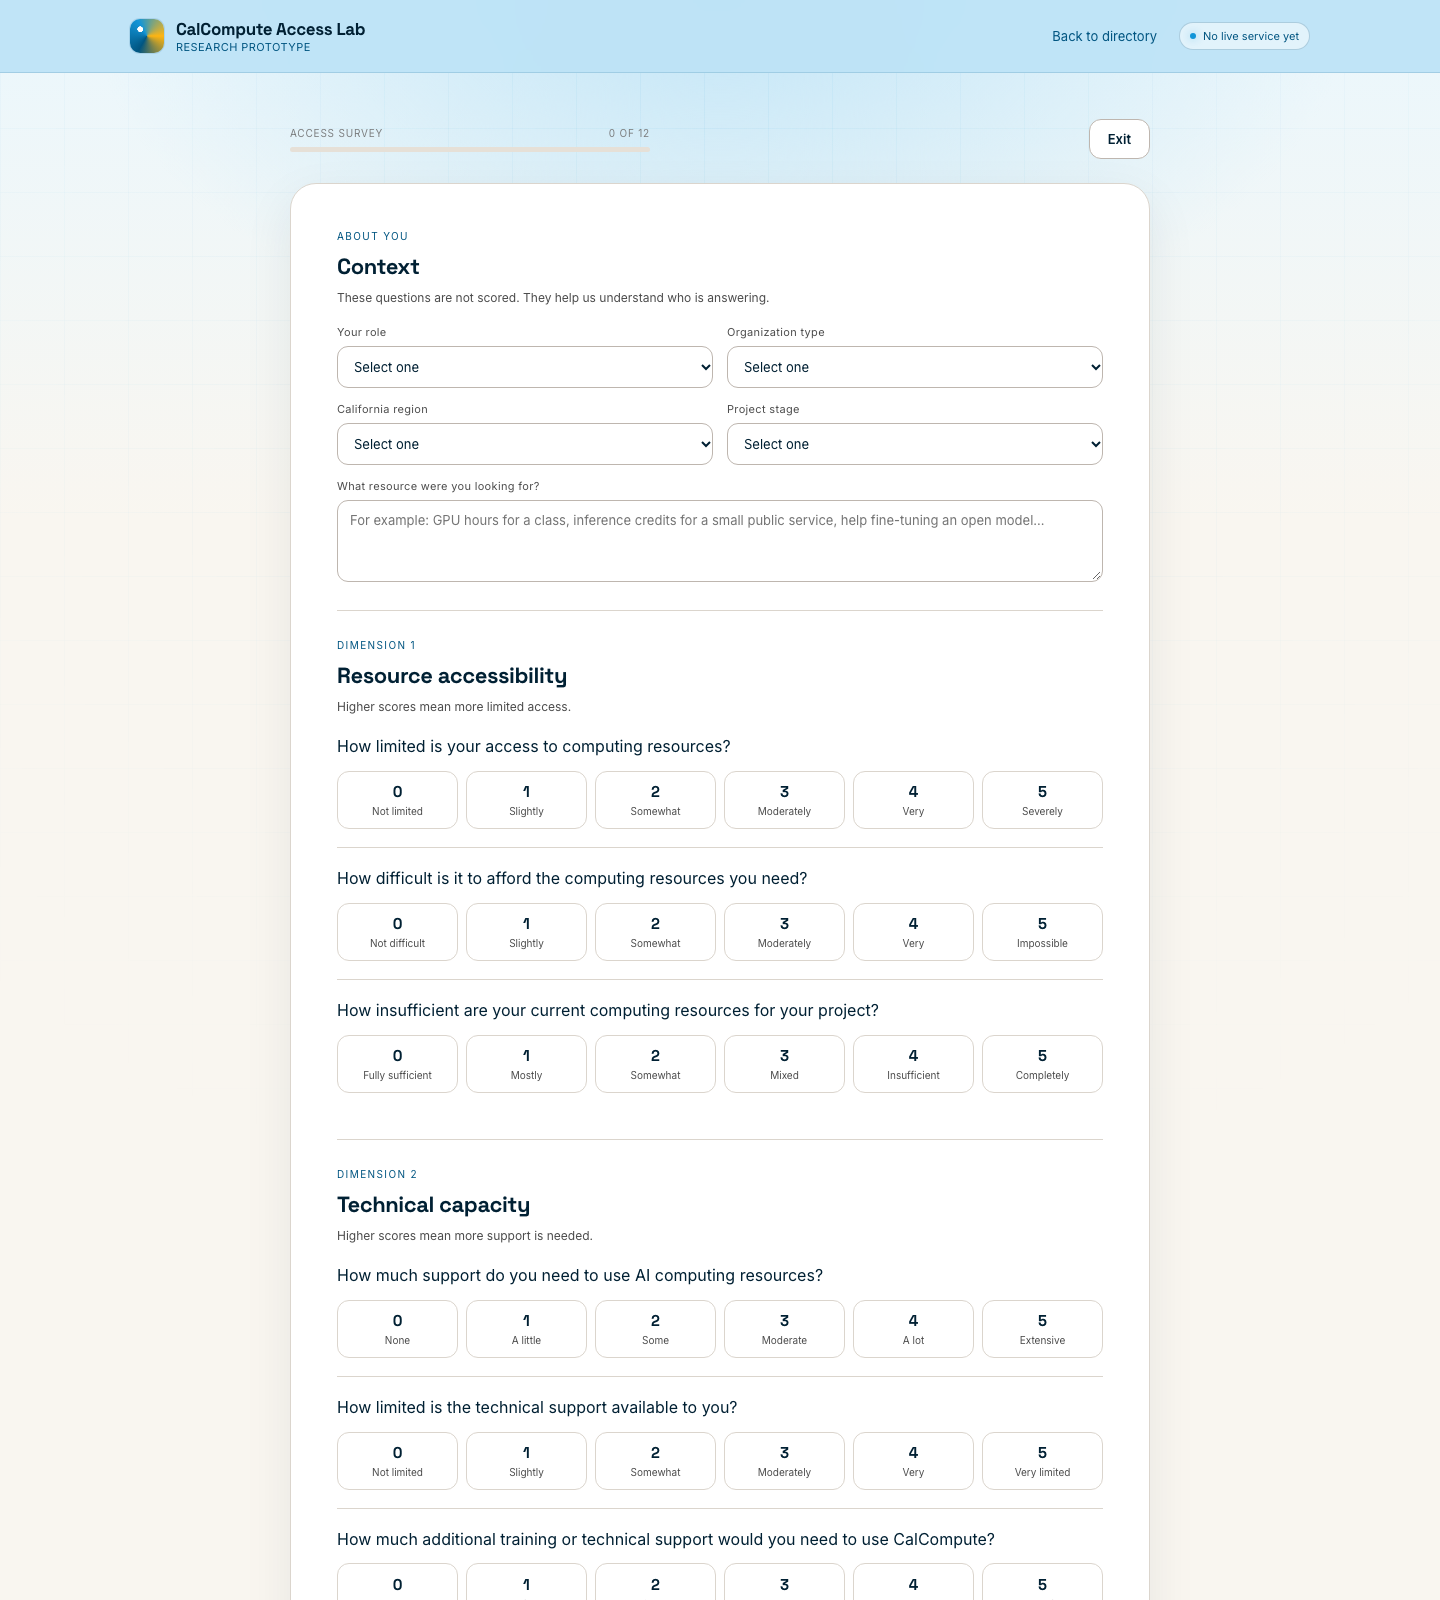
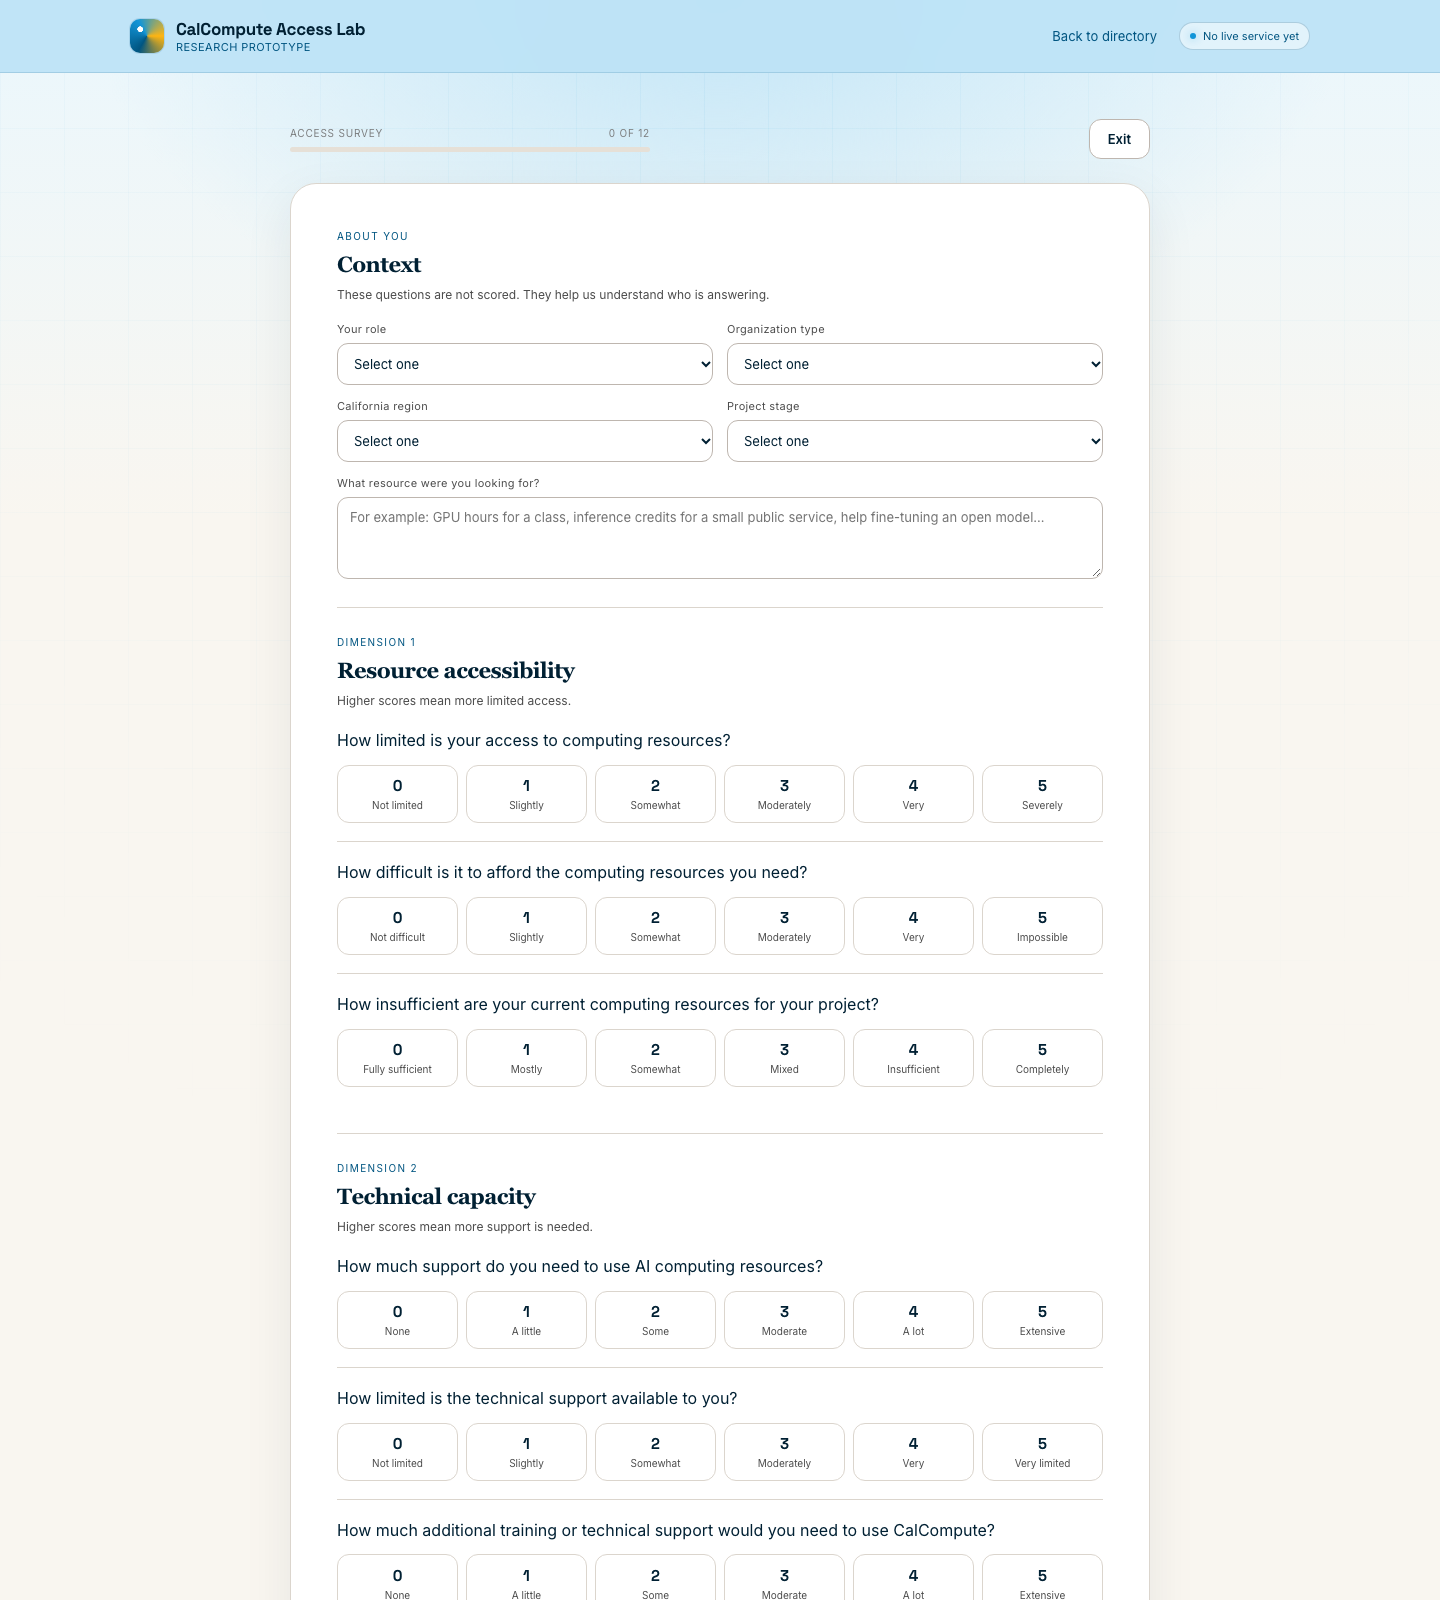
Refine serif headings and light-theme screenshots

diff --git a/assets/theme-calcompute.css b/assets/theme-calcompute.css
@@ -321,3 +321,28 @@ body.popup-only {
 .band-priority { color: #9b1c1c; background: #fee2e2; border-color: #fca5a5; }
 .band-support { color: #92400e; background: #fef3c7; border-color: #fcd34d; }
 .band-signpost { color: #065f46; background: #d1fae5; border-color: #6ee7b7; }
+
+/* Match the original CalCompute serif headings (Lyon Text fallback). */
+h1, h2, h3, h4,
+.dir-hero h1,
+.program-name,
+.popup h2,
+.contact-box h3,
+.result h1,
+.section-block h2,
+.matrix-head h3 {
+  font-family: "Lyon Text", Georgia, "Times New Roman", serif;
+  font-weight: 700;
+  letter-spacing: -0.025em;
+}
+
+/* Keep the Beta tag on the same line as the title. */
+.dir-hero h1 {
+  font-size: clamp(40px, 5.2vw, 58px);
+  max-width: 1200px;
+}
+.dir-beta {
+  font-family: "Kievit", Arial, sans-serif;
+  font-size: 11px;
+  vertical-align: middle;
+}
